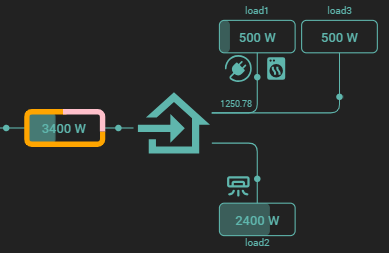
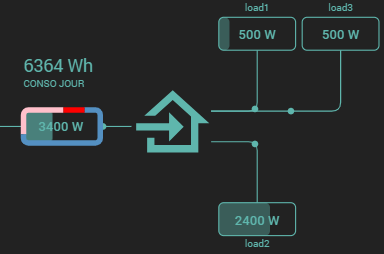
update

Changed region(s): [[0.0, 0.0, 1.0, 0.996], [0.0625, 0.2213, 0.25, 0.3597]]

diff --git a/plugins/fr_FR/powerFlow/beta/index.md b/plugins/fr_FR/powerFlow/beta/index.md
@@ -199,7 +199,6 @@ Vous pouvez choisir une icône personnalisée pour remplacer de l'icône batteri
 
 #### Couleurs personnalisées
 
-
 <!--
 #### SOC Min. (%)
 Choissisez la valeur à laquelle la batterie est considérée vide.<br>
@@ -225,12 +224,23 @@ Choisissez la couleur par défaut des éléments "Récepteur" (vert par défaut)
 Si vous disposez déjà d'une commande contenant la puissance totale des récepteurs, vous pouvez la renseigner dans ce champ.<br>
 Dans le cas contraire, laissez ce champ vide, le widget fera automatiquement la somme de tous les récepteurs.
 
-### Energie quotidienne de la batterie
+### Energie quotidienne des récepteurs
 
-Ajoutez simplement la commande qui contient l'énergie ainsi que le texte a afficher.
+Ajoutez simplement la commande qui contient l'énergie ainsi que le texte a afficher.<br>
+<img src="../../../images/powerFlow_exemple_load_2.png"/>
 
 ### Ajout de récepteurs
 
+#### Paramètres globals
+Désactiver les animations : Cochez cette case si vous voulez masquer les animations des récepteurs.
+Forcer 4 recépteurs par colonne : Permet d'afficher jusqu'a 4 recepteurs par colonnes :<br>
+<img src="../../../images/powerFlow_exemple_load_3.png" height="250px"/><br>
+>**⚠** Si vous utilisez plus que 6 panneaux solaires, cette option sera automatiquement désactivée.<br>
 
+⚠Pour chaque récepteur ajouté, le champ "Puissance" est obligatoire.<br>
+
+Il est possible d'afficher l'énergie ainsi qu'une commande personnalisée pour chaque récepteurs (pas obligatoire).
+
+Comme les autres catégories, chaque récepteur disposent d'une gauge et d'un seuil d'alerte. (Max et Alerte en w.)
 
 # FAQ
